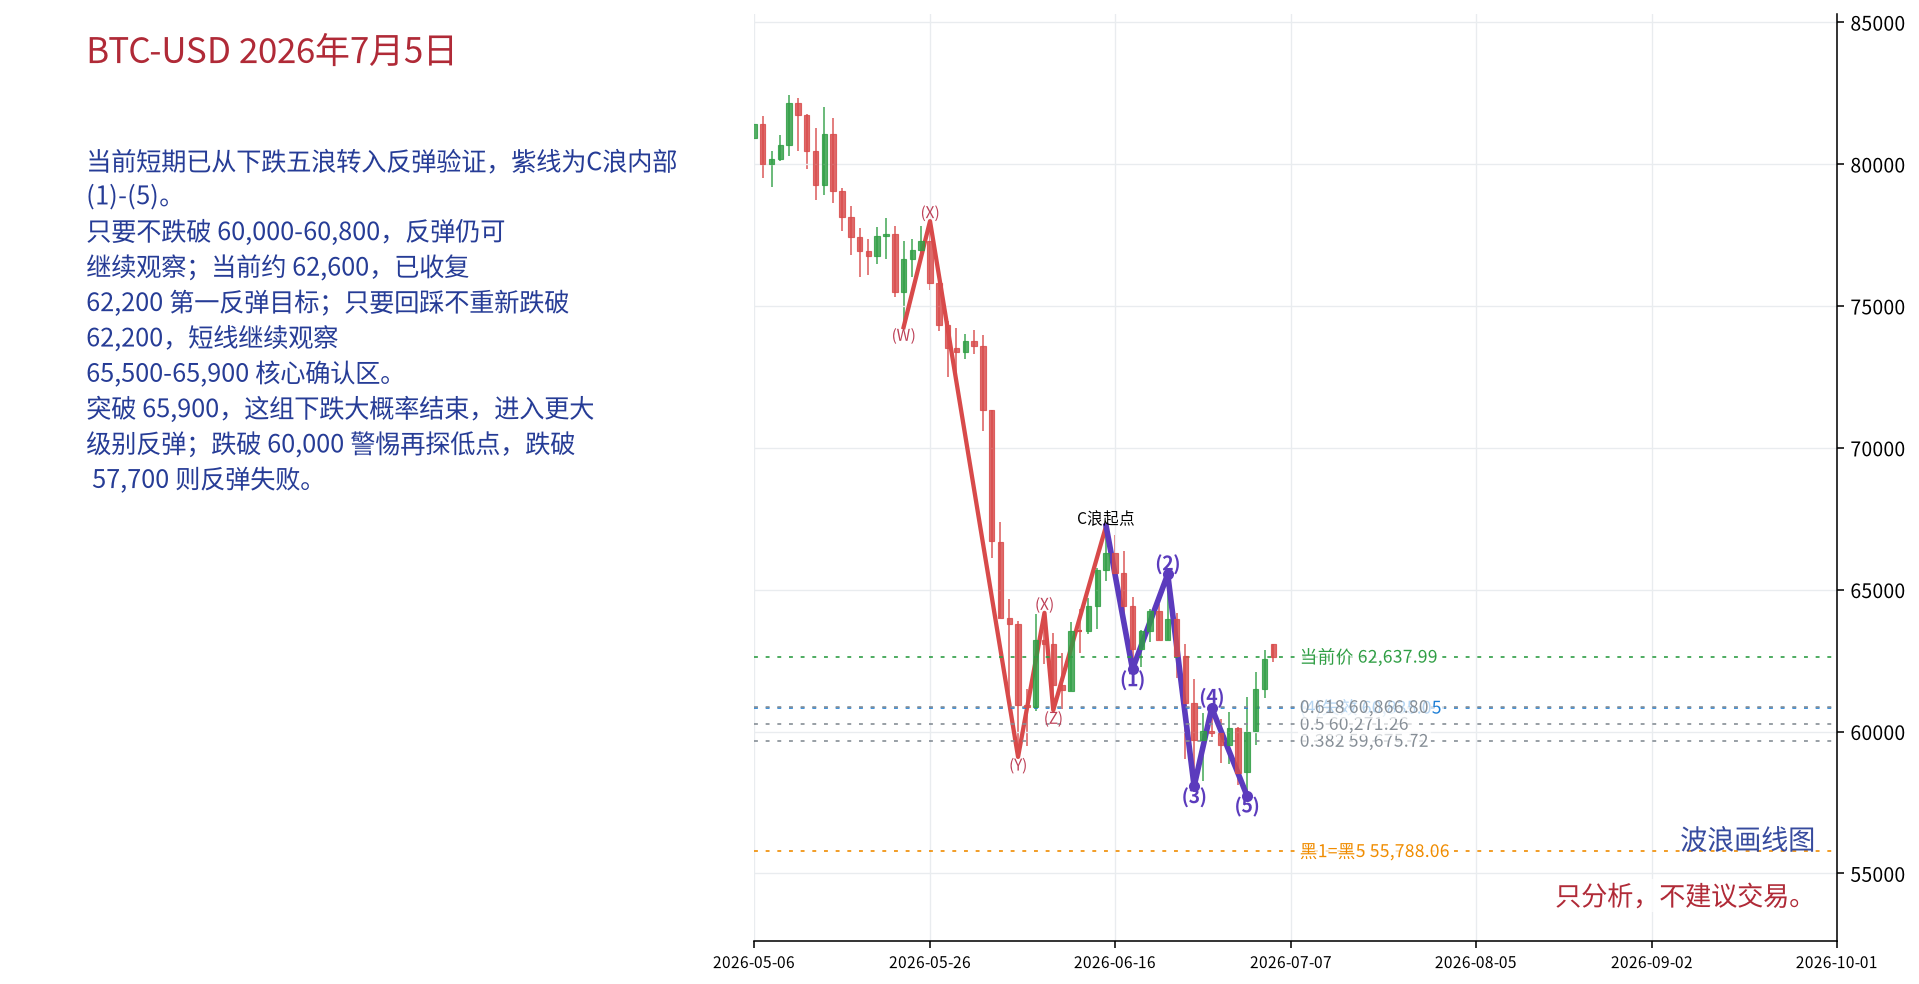
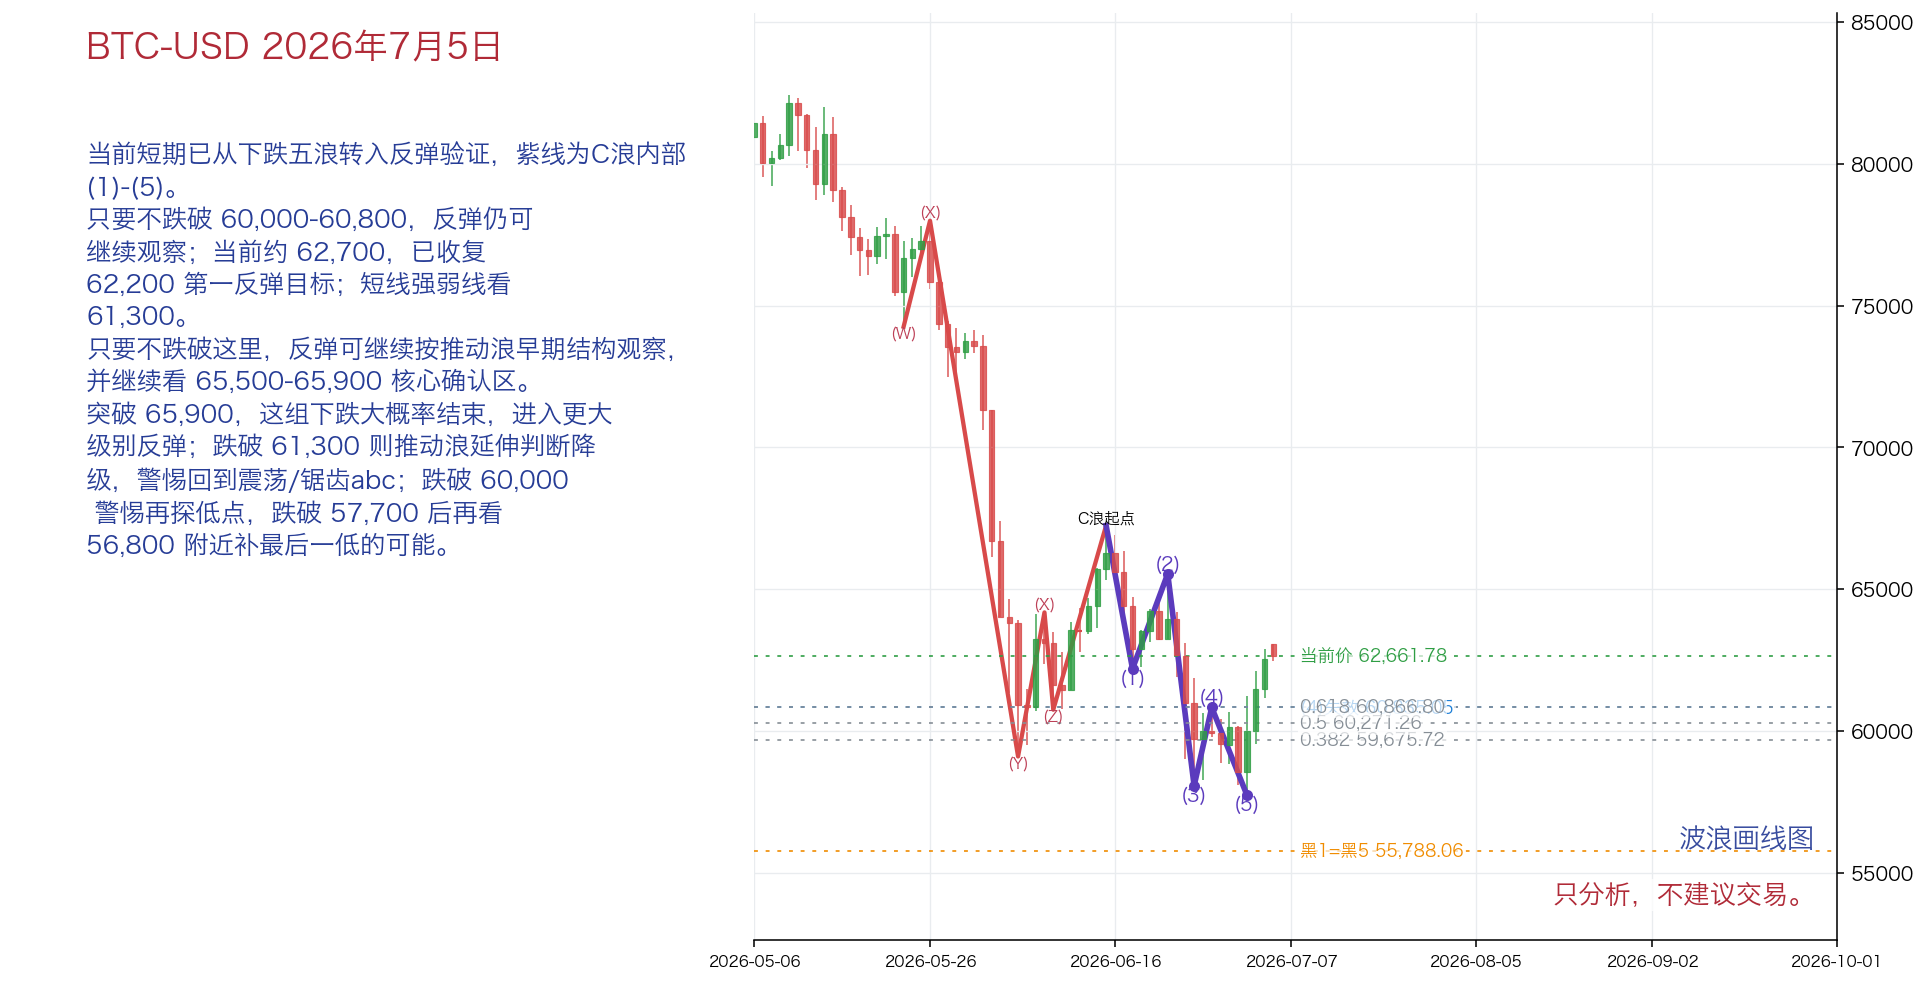
Refine BTC short-term wave support logic

diff --git a/elliott-wave-us-stock/scripts/elliott_wave_chart.py b/elliott-wave-us-stock/scripts/elliott_wave_chart.py
@@ -630,23 +630,29 @@ def build_post(
         if wave4_reclaimed:
             if prefers_cycle_low(symbol):
                 support_label = f"{fmt_floor(support_floor, 1000)}-{fmt_round(p4.price, 100)}"
+                immediate_support = p4.price + (p1.price - p4.price) * 0.35
+                immediate_support_label = fmt_round(immediate_support, 100)
                 first_target_label = fmt_round(p1.price, 100)
                 core_label = f"{confirm_floor:,.0f}-{confirm_ceiling:,.0f}"
                 confirm_break_label = f"{confirm_ceiling:,.0f}"
                 failure_watch_label = fmt_floor(support_floor, 1000)
                 failure_low_label = fmt_round(p5.price, 100)
+                extension_low_label = fmt_round(p5.price - (p4.price - p5.price) * 0.32, 100)
             else:
                 support_label = f"{fmt_price(support_floor)}-{fmt_price(p4.price)}"
+                immediate_support = p4.price + (p1.price - p4.price) * 0.35
+                immediate_support_label = fmt_price(immediate_support)
                 first_target_label = fmt_price(p1.price)
                 core_label = f"{fmt_price(core_low)}-{fmt_price(core_high)}"
                 confirm_break_label = fmt_price(core_high)
                 failure_watch_label = fmt_price(support_floor)
                 failure_low_label = fmt_price(p5.price)
+                extension_low_label = fmt_price(p5.price - (p4.price - p5.price) * 0.32)
             first_target_reclaimed = current_price is not None and current_price >= p1.price
             rebound_sentence = (
                 f"当前约 {fmt_round(current_price, 100) if prefers_cycle_low(symbol) else fmt_price(current_price)}，"
-                f"已收复 {first_target_label} 第一反弹目标；只要回踩不重新跌破 {first_target_label}，"
-                f"短线继续观察 {core_label} 核心确认区。\n"
+                f"已收复 {first_target_label} 第一反弹目标；短线强弱线看 {immediate_support_label}。"
+                f"只要不跌破这里，反弹可继续按推动浪早期结构观察，并继续看 {core_label} 核心确认区。\n"
                 if first_target_reclaimed
                 else f"上方先看 {first_target_label}，核心确认区看 {core_label}。\n"
             )
@@ -655,7 +661,8 @@ def build_post(
                 f"只要不跌破 {support_label}，反弹仍可继续观察；"
                 f"{rebound_sentence}"
                 f"突破 {confirm_break_label}，这组下跌大概率结束，进入更大级别反弹；"
-                f"跌破 {failure_watch_label} 警惕再探低点，跌破 {failure_low_label} 则反弹失败。\n\n"
+                f"跌破 {immediate_support_label} 则推动浪延伸判断降级，警惕回到震荡/锯齿abc；"
+                f"跌破 {failure_watch_label} 警惕再探低点，跌破 {failure_low_label} 后再看 {extension_low_label} 附近补最后一低的可能。\n\n"
             )
         else:
             body_detail = (

diff --git a/reports/posts/BTC-USD_2026-07-05_wave.md b/reports/posts/BTC-USD_2026-07-05_wave.md
@@ -2,7 +2,7 @@ $BTC-USD 2026年7月5日波浪结构观察：
 
 当前短期已从下跌五浪转入反弹验证，紫线为C浪内部(1)-(5)。
 
-只要不跌破 60,000-60,800，反弹仍可继续观察；当前约 62,600，已收复 62,200 第一反弹目标；只要回踩不重新跌破 62,200，短线继续观察 65,500-65,900 核心确认区。
-突破 65,900，这组下跌大概率结束，进入更大级别反弹；跌破 60,000 警惕再探低点，跌破 57,700 则反弹失败。
+只要不跌破 60,000-60,800，反弹仍可继续观察；当前约 62,700，已收复 62,200 第一反弹目标；短线强弱线看 61,300。只要不跌破这里，反弹可继续按推动浪早期结构观察，并继续看 65,500-65,900 核心确认区。
+突破 65,900，这组下跌大概率结束，进入更大级别反弹；跌破 61,300 则推动浪延伸判断降级，警惕回到震荡/锯齿abc；跌破 60,000 警惕再探低点，跌破 57,700 后再看 56,800 附近补最后一低的可能。
 
 只分析，不建议交易。